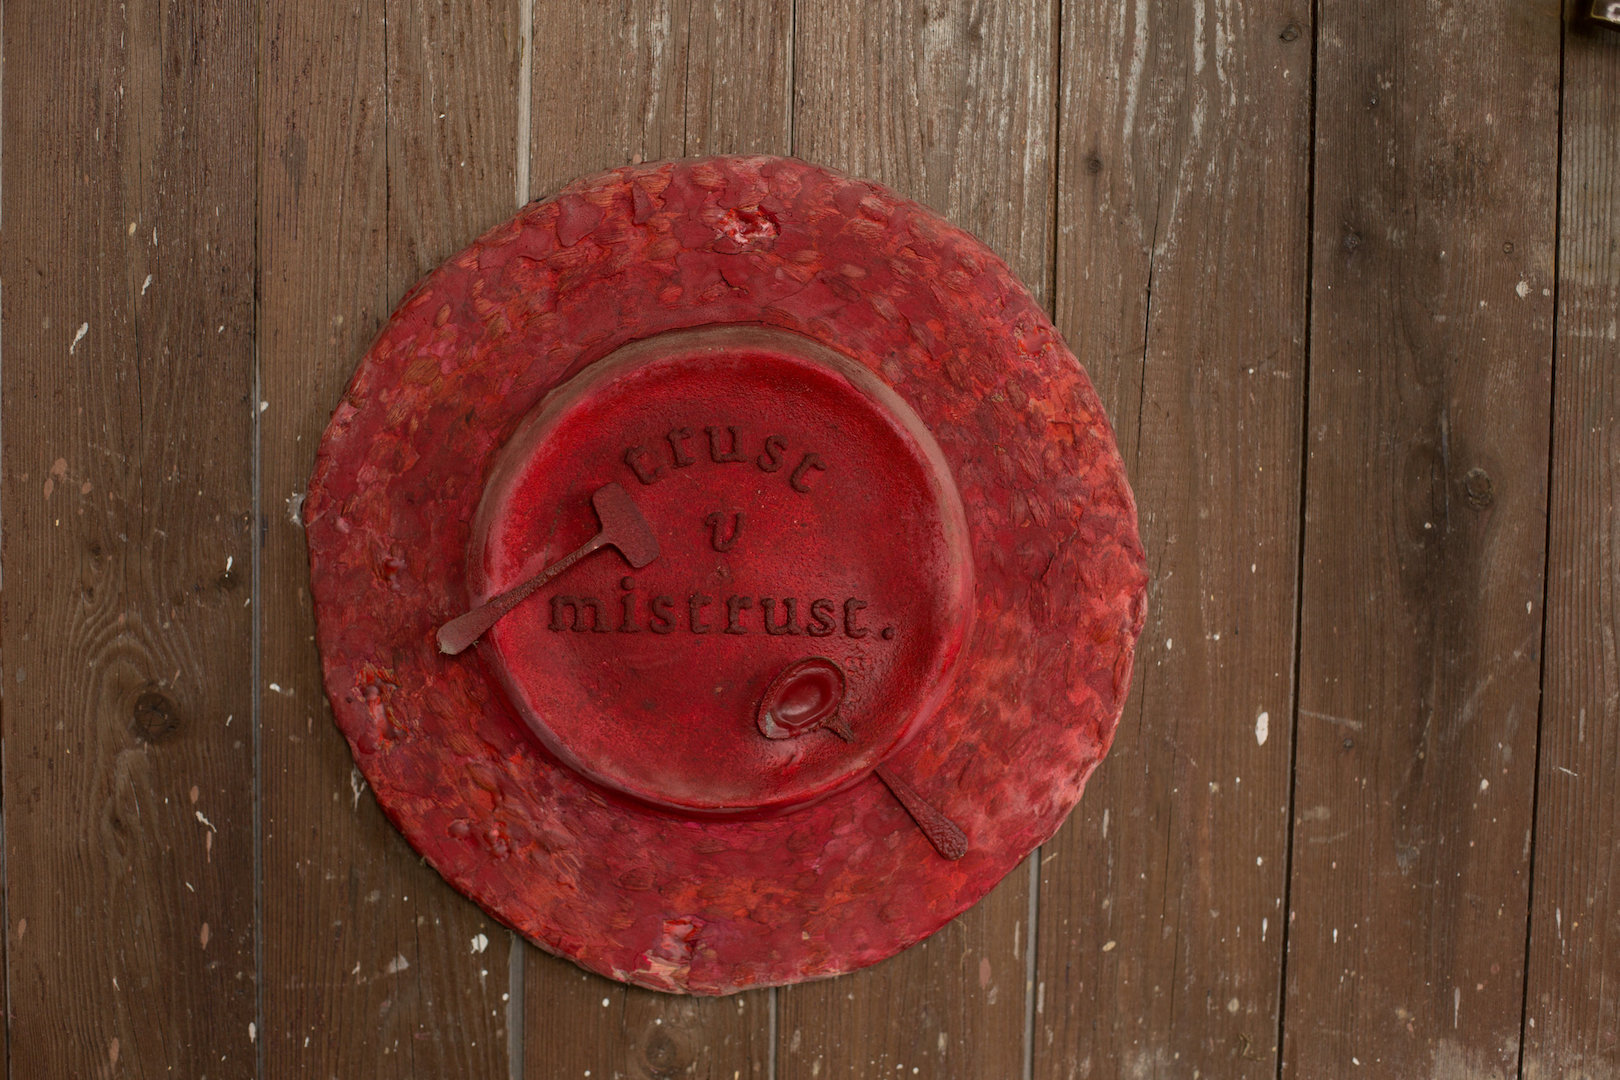
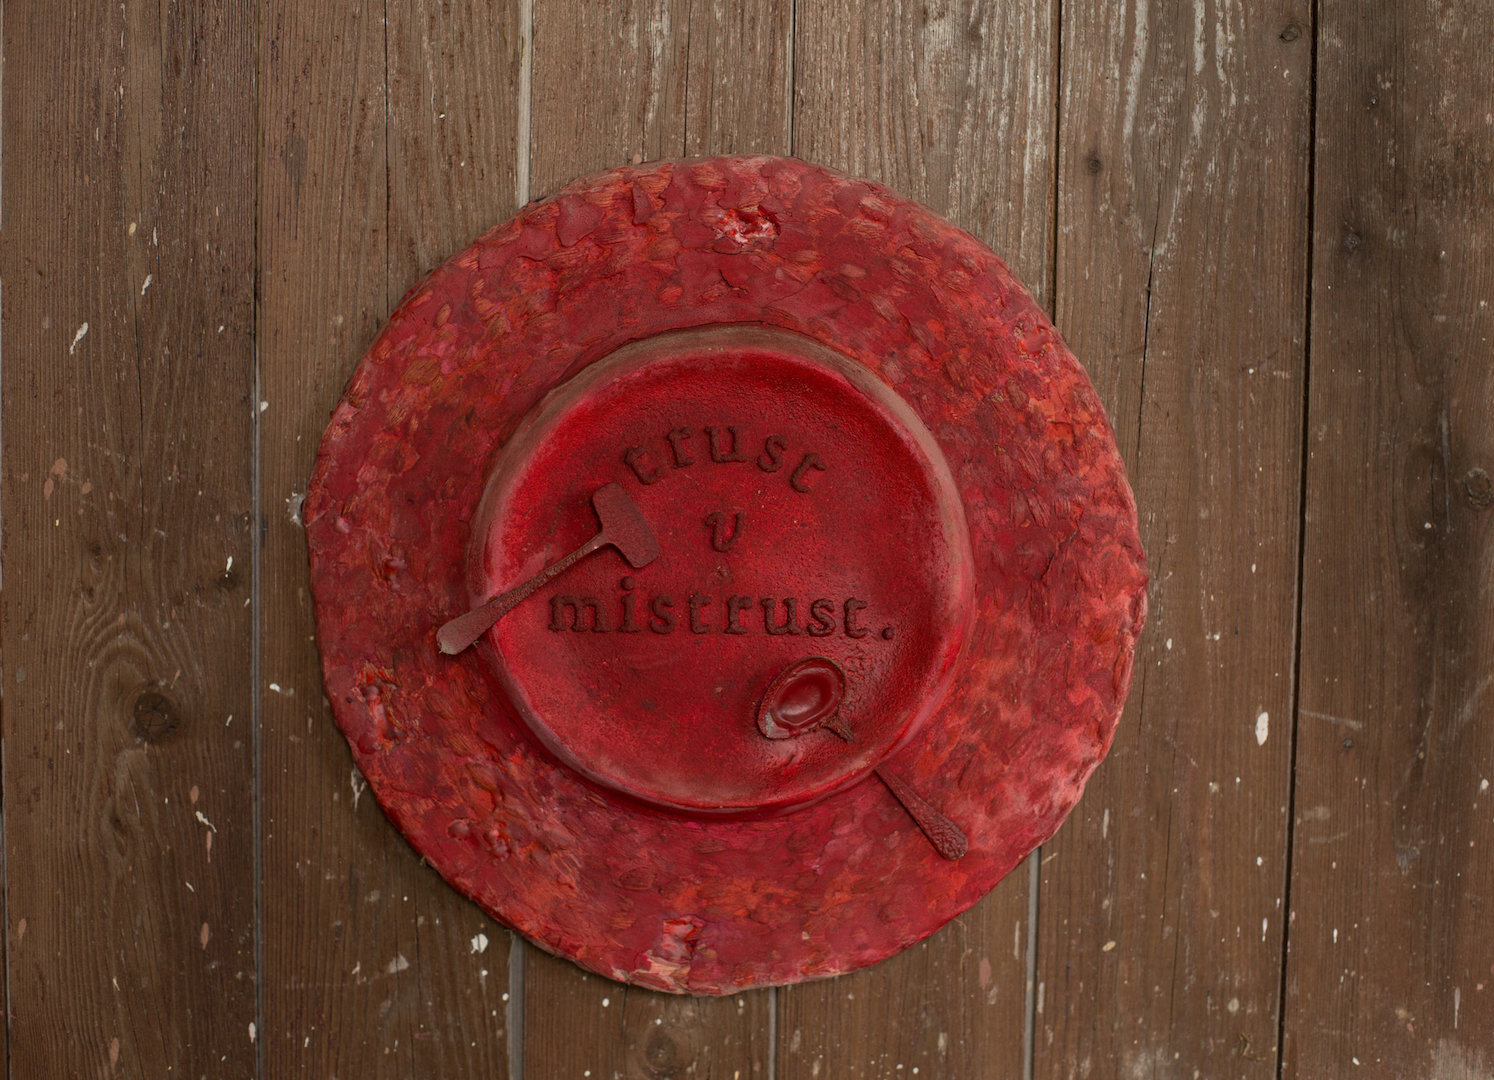
fixing jumpy images

diff --git a/js/brophy-0.0.2.js b/js/brophy-0.0.2.js
@@ -1,4 +1,6 @@
 $(function() {
+  var width = 1920;
+  var height = 1080;
   var images = {
     vessels: [{
         src: "/vessels/vessel_23x28_stoneware.sm.jpg",
@@ -6,7 +8,7 @@ $(function() {
         caption: true
       },{
         src: "/vessels/vessel_24x23_stoneware.sm.jpg",
-        desc: "Vessel, 24 x 28cm, Stoneware",
+        desc: "Vessel, 24 x 23cm, Stoneware",
         caption: true
       },{
         src: "/vessels/vessel_24x28_stoneware.sm.jpg",
@@ -68,7 +70,8 @@ $(function() {
     ],
     reliefs: [{
         src: "/reliefs/heart_vessel_relief_mixed_media.sm.jpg",
-        desc: "Heart vessel relief, mixed media"
+        desc: "Heart vessel relief, mixed media",
+        style: "padding-top: 10%"
       },{
         src: "/reliefs/blue_egg_shape.sm.jpg",
         desc: "Blue box, 84 x 64cms, mixed media",
@@ -93,6 +96,7 @@ $(function() {
       },{
         src: "/words/signs_of_life.sm.jpg",
         desc: "Signs of Life, 105 x 34cms, mixed media",
+        style: "padding-top: 20%",
         caption: true
       },{
         src: "/words/danger_of_death.sm.jpg",
@@ -151,8 +155,10 @@ $(function() {
 
     $.each(items, function(i, item) {
       var carouselItem = $('<div class="carousel-item"></div>');
+      var inlineStyle = (item.style) ? item.style : '';
+
       carouselItem.html(
-        '<img class="d-block w-100" src="/images' + item.src + '" alt="' + item.desc + '" />'
+        '<img class="d-block w-100" src="/images' + item.src + '" alt="' + item.desc + '" style="' + inlineStyle + '" />'
       );
 
       if (item.caption) {

diff --git a/index.html b/index.html
@@ -8,7 +8,7 @@
 
     <link href="https://fonts.googleapis.com/css?family=Cormorant+Garamond" rel="stylesheet">
     <link href="css/bootstrap-4.0.0.min.css" rel="stylesheet" />
-    <link href="css/brophy-0.0.4.css" rel="stylesheet" />
+    <link href="css/brophy-0.0.5.css" rel="stylesheet" />
   </head>
 
   <body>
@@ -84,6 +84,6 @@
     <script src="js/jquery-3.2.1.slim.min.js"></script>
     <script src="js/popper-1.12.9.min.js"></script>
     <script src="js/bootstrap-4.0.0.min.js"></script>
-    <script src="js/brophy-0.0.1.js"></script>
+    <script src="js/brophy-0.0.2.js"></script>
   </body>
 </html>

diff --git a/css/brophy-0.0.5.css b/css/brophy-0.0.5.css
@@ -25,6 +25,7 @@ h2 {
 }
 
 .content {
+  width: auto;
   max-width: 768px;
 }
 
@@ -46,6 +47,7 @@ h2 {
 
 .content__index {
   height: 70vh;
+  max-width: 100vw;
 }
 
 .content__carousel, .content__about {
@@ -55,7 +57,6 @@ h2 {
 .carousel-inner {
   display: table-cell;
   text-align: center;
-  vertical-align: middle;
   height: 70vh;
 }
 
@@ -76,6 +77,7 @@ h2 {
   width: auto;
   height: auto;
   max-height: 70vh;
+  max-width: 100vw;
   object-fit: contain;
 }
 
